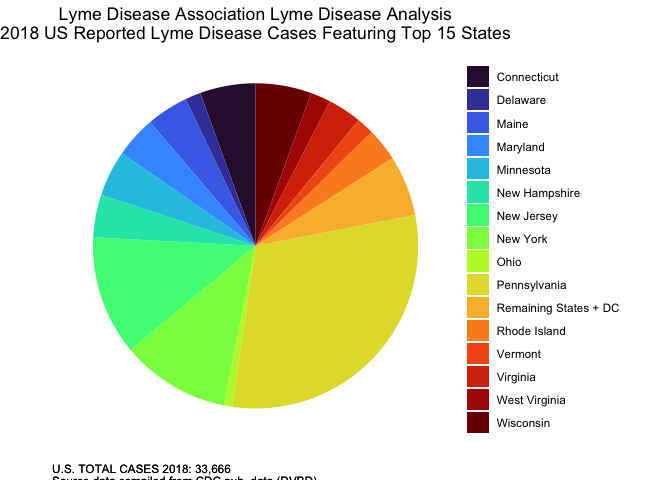
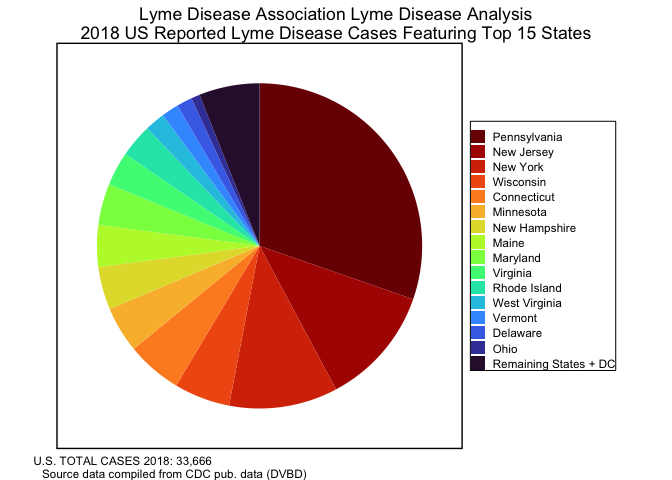
Almost done with question 2, the only thing that's left is I have to figure out how to extend the border of the panel.

diff --git a/homework-02.md b/homework-02.md
@@ -70,27 +70,68 @@ lyme <- tribble(
   "Delaware", 520,
   "Ohio", 293,
   "Remaining States + DC", 2026) %>%
-  mutate(case_percent = round((case_count / sum(case_count)) * 100, digits = 1))
+  mutate(case_percent = round((case_count / sum(case_count)) * 100, digits = 1)) %>%
+  mutate(state = as.factor(state))
 
 #create pie chart
 lyme %>%
-  ggplot(mapping = aes(x = 1, y = case_count, fill = state)) +
+  ggplot(mapping = aes(x = 1, 
+                       y = case_count, 
+                       fill = fct_relevel(fct_reorder(state, 
+                                                      case_count, 
+                                                      .desc = FALSE), 
+                                          "Remaining States + DC", after = 0))) +
   geom_bar(stat = "identity") +
-  coord_polar(theta = "y", start=0) +
+  coord_polar(theta = "y", 
+              start=0) +
   labs(title = "Lyme Disease Association Lyme Disease Analysis\n2018 US Reported Lyme Disease Cases Featuring Top 15 States",
        fill = NULL,
        caption = "U.S. TOTAL CASES 2018: 33,666\nSource data compiled from CDC pub. data (DVBD)") +
   scale_fill_viridis_d(option = "turbo") +
+  guides(fill = guide_legend(reverse=TRUE)) +
   theme_void() +
   theme(plot.title = element_text(hjust = 0.5),
-        plot.caption = element_text(hjust = c(0, 0), vjust = -2))
+        plot.title.position = "plot",
+        legend.box.background = element_rect(colour = "black"),
+        legend.key.size = unit(0.4, "cm"),
+        panel.background = element_rect(fill = "white", size = 1),
+        plot.caption = element_text(hjust = -0.1))
 ```
 
 ![](homework-02_files/figure-gfm/exercise-2-1.png)<!-- -->
 
 ``` r
 #present information as bar graph
+lyme %>%
+  ggplot(mapping = aes(x = fct_relevel(fct_reorder(state, 
+                                                   case_count, 
+                                                   .desc = TRUE), 
+                                       "Remaining States + DC", 
+                                       after = 15), 
+                       y = case_count,
+                       fill = factor(ifelse(state == "Connecticut", 1, 2)))) +
+  geom_col(show.legend = FALSE) +
+  scale_fill_manual(name = "state", values= c("navy", "gray46")) +
+  theme_minimal() +
+  theme(axis.text.x = element_text(angle = 50, hjust = 1),
+        plot.title = element_text(hjust = 0.5),
+        plot.subtitle = element_text(hjust = 0.5)) +
+  labs(title = "Lyme Disease Association Lyme Disease Analysis",
+       subtitle = "2018 US Reported Lyme Diseases Cases Featuring Top 15 States",
+       x = "State",
+       y = "Number of Reported Lyme Disease Cases",
+       caption = "Source: data compiled from CDC pub. data (DVBD)")
 ```
+
+![](homework-02_files/figure-gfm/exercise-2-2.png)<!-- -->
+
+I decided to use color to highlight the state of Connecticut, as I think
+it is a straightforward way of catching the eye of an observer. I chose
+a shade of gray as the color for all other states, as gray is a rather
+neutral color. I highlighted the value for Connecticut in navy, as it is
+a soothing color that is not too aggressive, yet still exists in stark
+contrast to the gray that is used to color the other states’ bars in
+this graph.
 
 3.  **Foreign Connected PACs.**
 
